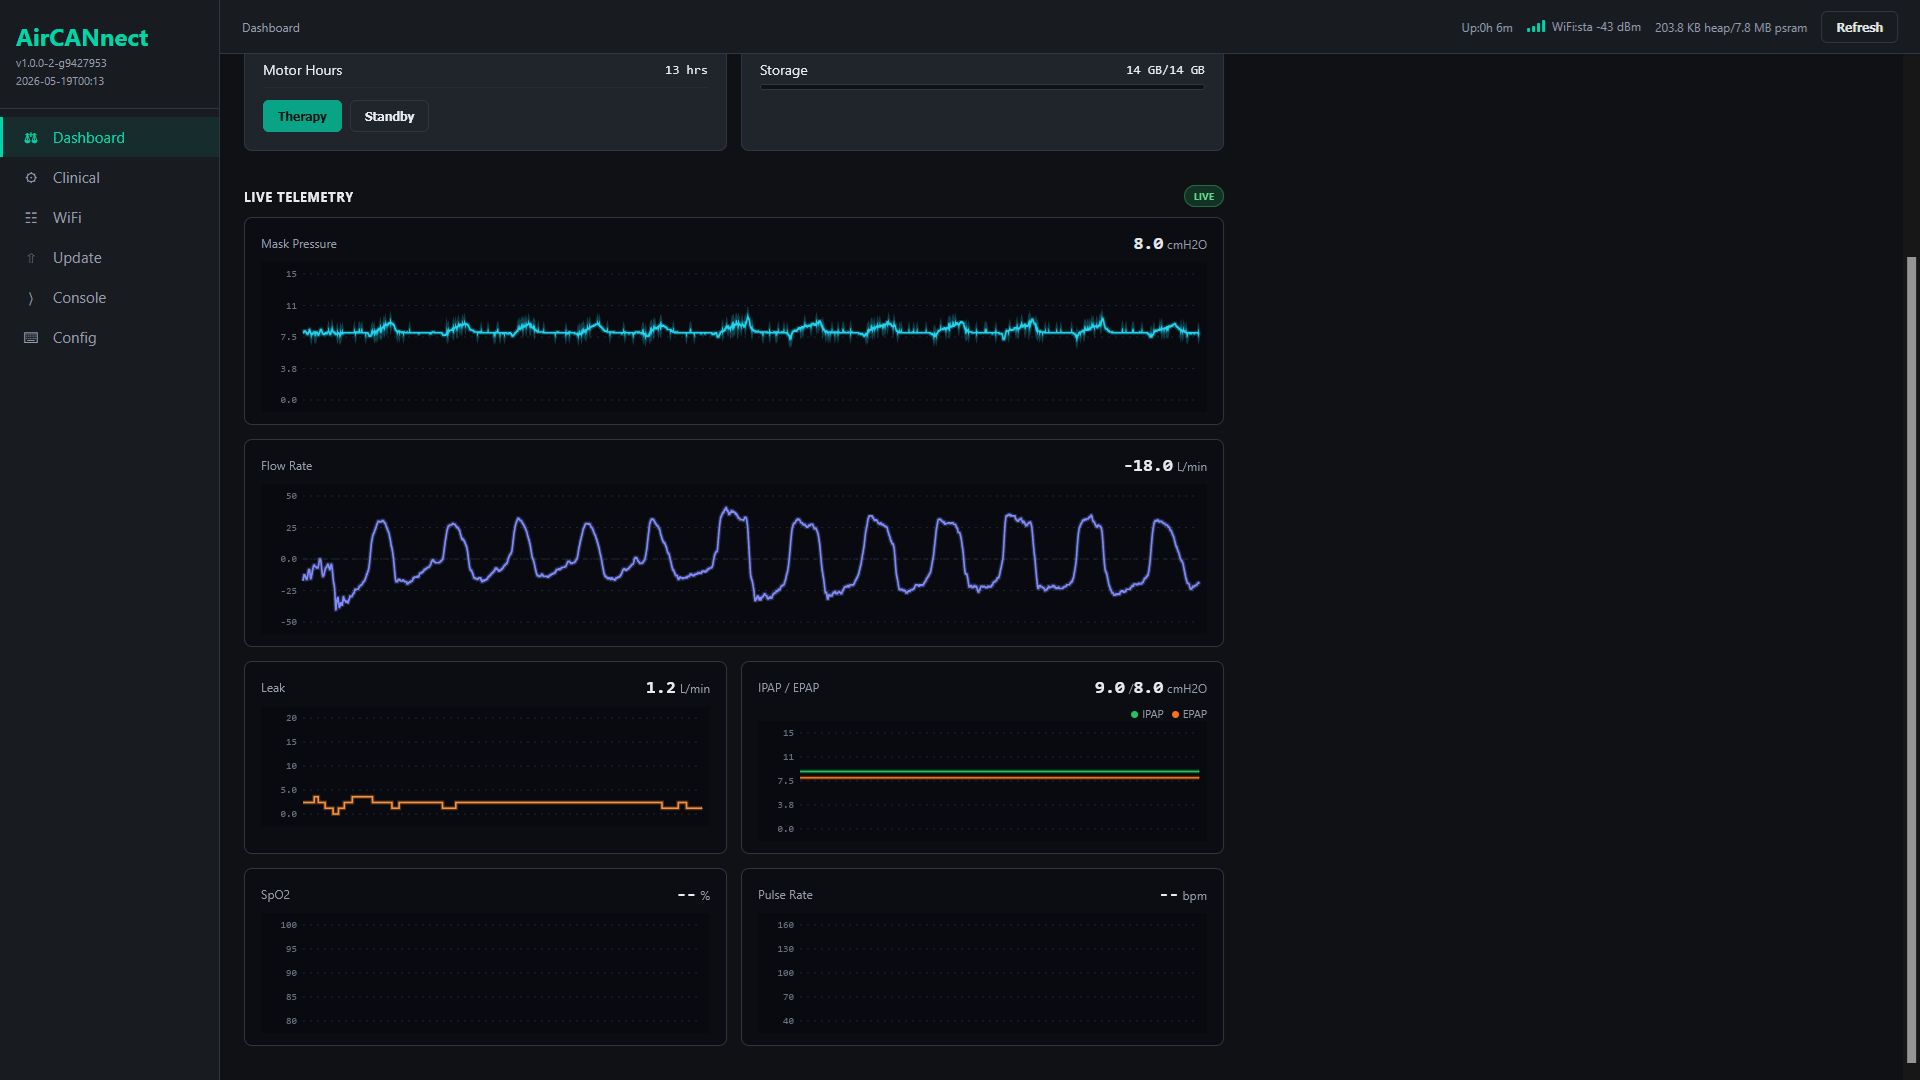
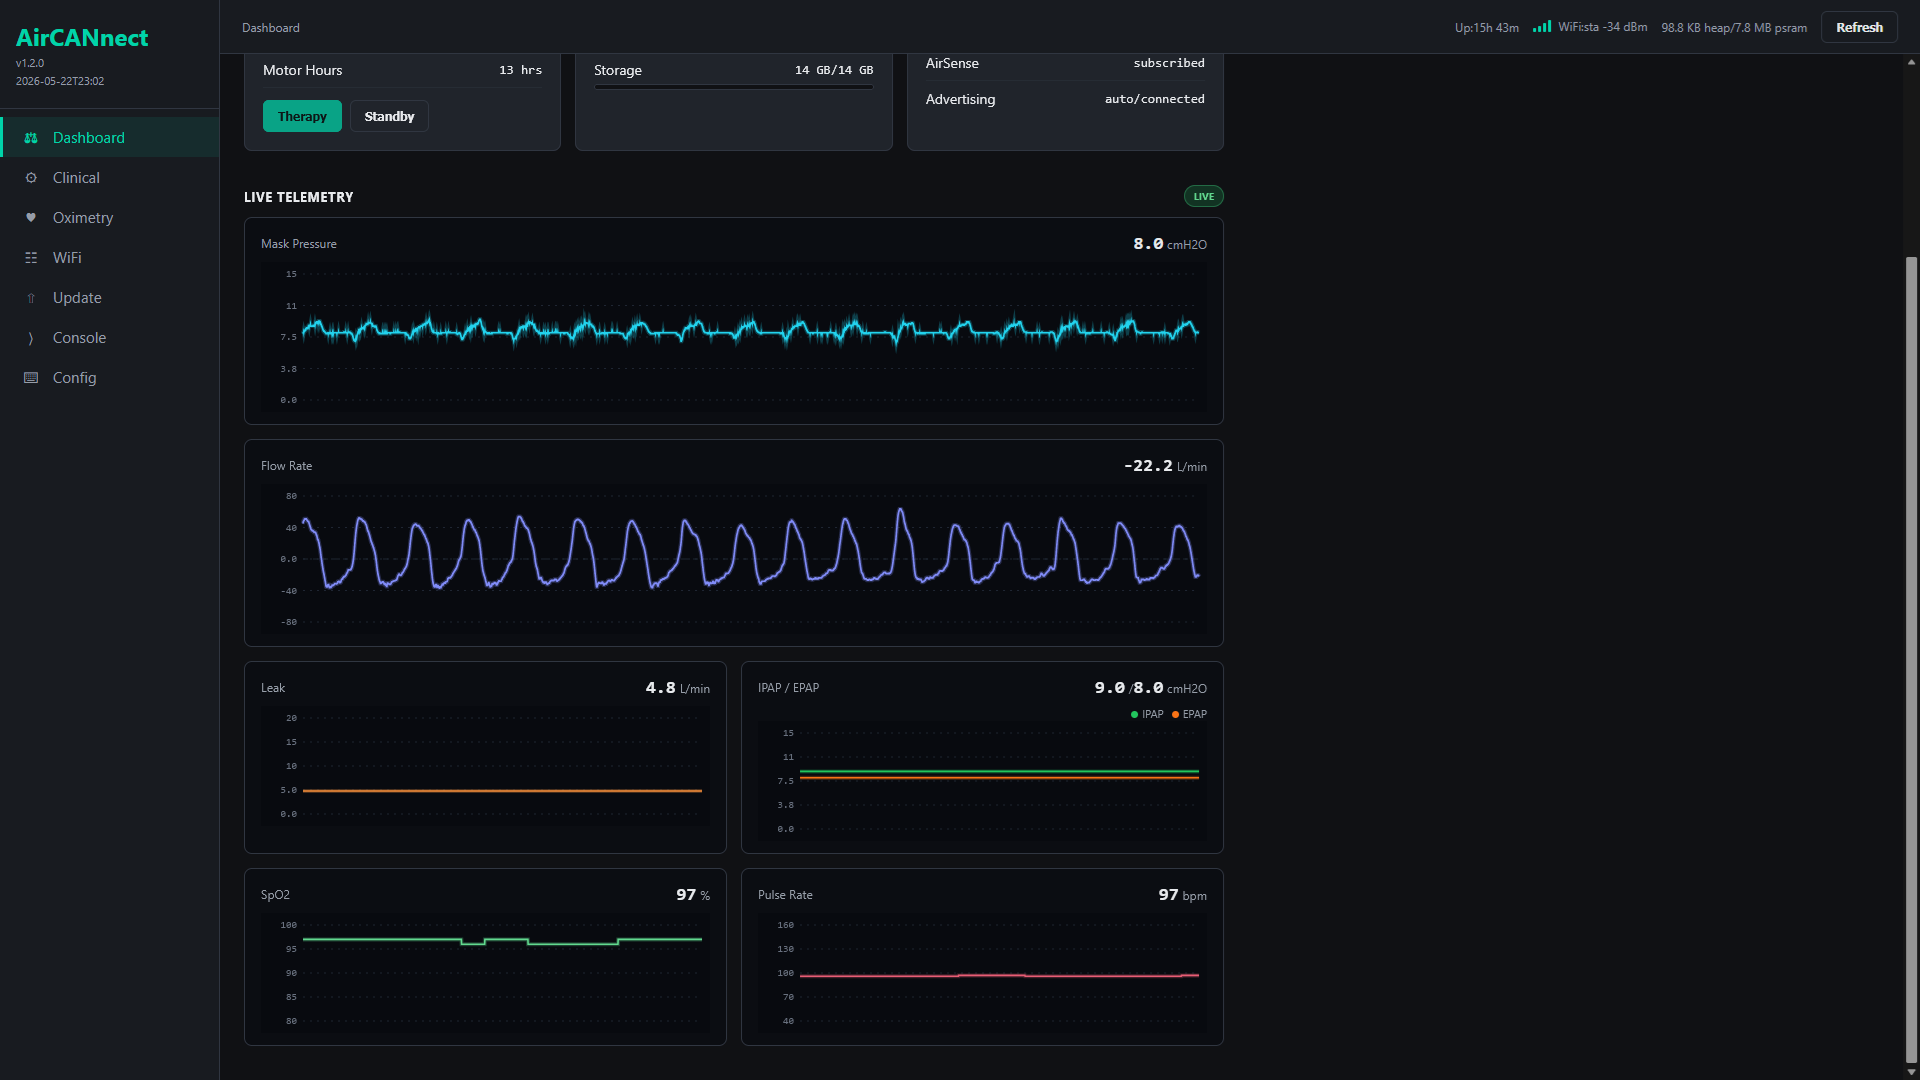
update docs

diff --git a/docs/configuration.md b/docs/configuration.md
@@ -1,83 +1,91 @@
 # Configuration Reference
 
+Persistent AirCANnect configuration keys.
+
+Boolean values accept `on`/`off`, `yes`/`no`, `true`/`false`, `1`/`0`, and
+`enabled`/`disabled`.
+
 ## Device
 
-| Key | Values | Default | Provisioning | Description |
-| --- | --- | --- | --- | --- |
-| `host` | Hostname, 1-63 alnum/hyphen chars, not starting or ending with hyphen | `aircannect` | yes | Device hostname and SoftAP SSID prefix. |
+| Key | Values | Default | Description |
+| --- | --- | --- | --- |
+| `host` | Hostname, 1-63 alnum/hyphen chars, not starting or ending with hyphen | `aircannect` | Device hostname and SoftAP SSID prefix. |
 
 ## Wi-Fi Profiles
 
-| Key | Values | Default | Provisioning | Description |
-| --- | --- | --- | --- | --- |
-| `ssid_0` ... `ssid_3` | SSID string, or empty | empty | yes | Wi-Fi profile SSID slots 0 through 3. Provisioned SSID slots replace the stored profile list; `ssid_0=` with no other SSIDs clears Wi-Fi profiles. |
-| `pass_0` ... `pass_3` | Password string, or empty | empty | yes | Wi-Fi profile password slots 0 through 3. Empty or missing password marks that profile open. |
+| Key | Values | Default | Description |
+| --- | --- | --- | --- |
+| `ssid_0` ... `ssid_3` | SSID string, or empty | empty | Wi-Fi profile SSID slots 0 through 3. Provisioned SSID slots replace the stored profile list; `ssid_0=` with no other SSIDs clears Wi-Fi profiles. |
+| `pass_0` ... `pass_3` | Password string, or empty | empty | Wi-Fi profile password slots 0 through 3. Empty or missing password marks that profile open. |
 
 ## Wi-Fi Behavior
 
-| Key | Values | Default | Provisioning | Description |
-| --- | --- | --- | --- | --- |
-| `wifi_ctry` | `01`, or two-letter ISO country code | `01` | yes | Wi-Fi regulatory country. `01` is the worldwide-safe setting. |
-| `softap_mode` | `auto`, `forced` | `auto` | yes | `auto` keeps SoftAP as fallback/recovery. `forced` keeps SoftAP running alongside STA. |
+| Key | Values | Default | Description |
+| --- | --- | --- | --- |
+| `wifi_ctry` | `01`, or two-letter ISO country code | `01` | Wi-Fi regulatory country. `01` is the worldwide-safe setting. |
+| `softap_mode` | `auto`, `forced` | `auto` | `auto` keeps SoftAP as fallback/recovery. `forced` keeps SoftAP running alongside STA. |
 
 Roaming is implicit when more than one Wi-Fi profile exists.
 
 ## Network Services
 
-| Key | Values | Default | Provisioning | Description |
-| --- | --- | --- | --- | --- |
-| `tcp_en` | boolean | `on` | yes | Enable the raw AS11 TCP bridge. |
-| `tcp_port` | TCP port `1` to `65535` | `39011` | yes | Raw AS11 TCP bridge port. |
-| `telnet_en` | boolean | `on` | yes | Enable the telnet management console. |
-| `telnet_port` | TCP port `1` to `65535` | `23` | yes | Telnet management console port. |
+| Key | Values | Default | Description |
+| --- | --- | --- | --- |
+| `tcp_en` | boolean | `on` | Enable the raw AS11 TCP bridge. |
+| `tcp_port` | TCP port `1` to `65535` | `39011` | Raw AS11 TCP bridge port. |
+| `telnet_en` | boolean | `on` | Enable the telnet management console. |
+| `telnet_port` | TCP port `1` to `65535` | `23` | Telnet management console port. |
 
-## HTTP Access
+## Network Access
 
-Empty `http_user` and `http_pass` mean open HTTP access.
+Empty `http_user` and `http_pass` mean open access for HTTP and telnet.
 
-| Key | Values | Default | Provisioning | Description |
-| --- | --- | --- | --- | --- |
-| `http_user` | ASCII string, max 64 chars, or empty | `admin` | yes | Web UI/API username. |
-| `http_pass` | ASCII string, max 64 chars, or empty | `aircannect` | yes | Web UI/API password. |
-| `auth_wl` | Empty, IPv4 entries/ranges separated by commas | empty | yes | IP/range whitelist that bypasses HTTP auth. |
+| Key | Values | Default | Description |
+| --- | --- | --- | --- |
+| `http_user` | ASCII string, max 64 chars, or empty | `admin` | Web UI/API username. |
+| `http_pass` | ASCII string, max 64 chars, or empty | `aircannect` | Web UI/API password. |
+| `auth_wl` | Empty, `*`, IPv4 addresses, CIDR ranges, or IPv4 start-end ranges separated by commas | empty | IP/range whitelist that bypasses HTTP and telnet auth. |
 
 ## Time
 
-| Key | Values | Default | Provisioning | Description |
-| --- | --- | --- | --- | --- |
-| `tz` | POSIX timezone string, max 64 chars | `UTC` | yes | Local timezone used for UI/CLI display. AS11 RPC time remains UTC. |
-| `resmed_time` | boolean | `off` | yes | When NTP is synced and therapy is idle, push ESP time to the ResMed device. |
+| Key | Values | Default | Description |
+| --- | --- | --- | --- |
+| `tz` | POSIX timezone string, max 64 chars | `UTC` | Local timezone used for UI/CLI display. AS11 RPC time remains UTC. |
+| `resmed_time` | boolean | `off` | When NTP is synced and therapy is idle, push ESP time to the ResMed device. |
 
 ## Oximetry
 
-| Key | Values | Default | Provisioning | Description |
-| --- | --- | --- | --- | --- |
-| `oxi_en` | boolean | `off` | yes | Enable the oximetry bridge. |
-| `oxi_udp` | UDP port `1` to `65535` | `8025` | yes | UDP source port. source format is AirBridge-compatible 7-byte packets. |
-| `oxi_adv` | `auto`, `manual` | `auto` | yes | `auto` advertises the PLX BLE peripheral only while a source is fresh. `manual` requires `oxi advertise start`, but still stops on source timeout. |
+| Key | Values | Default | Description |
+| --- | --- | --- | --- |
+| `oxi_en` | boolean | `on` | Enable oximetry input and AirSense recording bridge. |
+| `oxi_udp` | UDP port `1` to `65535` | `8025` | UDP source port. Source format is AirBridge-compatible 7-byte packets. |
+| `oxi_adv` | `auto`, `manual` | `auto` | `auto` advertises to AirSense while a source is available. `manual` uses explicit `oxi advertise start` / `stop`. |
+
+Known BLE oximeters are stored separately and managed from the Web UI or
+`oxi sensor` console commands, not from `config.txt`.
 
 ## ESP32 OTA
 
-| Key | Values | Default | Provisioning | Description |
-| --- | --- | --- | --- | --- |
-| `ota_pass` | ASCII string up to 64 chars, or empty | `aircannect` | yes | ArduinoOTA password. Empty value allows ArduinoOTA without authorization. |
+| Key | Values | Default | Description |
+| --- | --- | --- | --- |
+| `ota_pass` | ASCII string up to 64 chars, or empty | `aircannect` | ArduinoOTA password. Empty value allows ArduinoOTA without authorization. |
 
 ## Logging
 
-| Key | Values | Default | Provisioning | Description |
-| --- | --- | --- | --- | --- |
-| `syslog_en` | boolean | `off` | yes | Enable UDP syslog forwarding. |
-| `syslog_host` | Empty, or IPv4 address | empty | yes | Syslog destination host. |
-| `syslog_port` | UDP port `1` to `65535` | `514` | yes | Syslog destination port. |
-| `log0` | `ERROR`, `WARN`, `INFO`, `DEBUG` | `INFO` | no | `GENERAL` category log level. |
-| `log1` | `ERROR`, `WARN`, `INFO`, `DEBUG` | `INFO` | no | `CAN` category log level. |
-| `log2` | `ERROR`, `WARN`, `INFO`, `DEBUG` | `INFO` | no | `RPC` category log level. |
-| `log3` | `ERROR`, `WARN`, `INFO`, `DEBUG` | `INFO` | no | `TCP` category log level. |
-| `log4` | `ERROR`, `WARN`, `INFO`, `DEBUG` | `INFO` | no | `CLI` category log level. |
-| `log5` | `ERROR`, `WARN`, `INFO`, `DEBUG` | `INFO` | no | `WIFI` category log level. |
-| `log6` | `ERROR`, `WARN`, `INFO`, `DEBUG` | `INFO` | no | `STREAM` category log level. |
-| `log7` | `ERROR`, `WARN`, `INFO`, `DEBUG` | `INFO` | no | `OTA` category log level. |
-| `log8` | `ERROR`, `WARN`, `INFO`, `DEBUG` | `INFO` | no | `OXI` category log level. |
+| Key | Values | Default | Description |
+| --- | --- | --- | --- |
+| `syslog_en` | boolean | `off` | Enable UDP syslog forwarding. |
+| `syslog_host` | Empty, or IPv4 address | empty | Syslog destination host. |
+| `syslog_port` | UDP port `1` to `65535` | `514` | Syslog destination port. |
+| `log0` | `ERROR`, `WARN`, `INFO`, `DEBUG` | `INFO` | `GENERAL` category log level. |
+| `log1` | `ERROR`, `WARN`, `INFO`, `DEBUG` | `INFO` | `CAN` category log level. |
+| `log2` | `ERROR`, `WARN`, `INFO`, `DEBUG` | `INFO` | `RPC` category log level. |
+| `log3` | `ERROR`, `WARN`, `INFO`, `DEBUG` | `INFO` | `TCP` category log level. |
+| `log4` | `ERROR`, `WARN`, `INFO`, `DEBUG` | `INFO` | `CLI` category log level. |
+| `log5` | `ERROR`, `WARN`, `INFO`, `DEBUG` | `INFO` | `WIFI` category log level. |
+| `log6` | `ERROR`, `WARN`, `INFO`, `DEBUG` | `INFO` | `STREAM` category log level. |
+| `log7` | `ERROR`, `WARN`, `INFO`, `DEBUG` | `INFO` | `OTA` category log level. |
+| `log8` | `ERROR`, `WARN`, `INFO`, `DEBUG` | `INFO` | `OXI` category log level. |
 
 Per-category log levels are currently changed from the management console with
 `log level`, not from `config.txt`.

diff --git a/README.md b/README.md
@@ -22,13 +22,12 @@ ESP32 bridge for ResMed AirSense 11 / AirCurve 11 CPAP.
 - **Multi-profile Wi-Fi**
   - up to four STA profiles, BSSID-targeted roaming, SoftAP auto-fallback or forced always-on.
 - **Oximetry**
-  - use supported external oximetry sources with AirSense 11 HR/SpO2 recording
+  - use supported BLE oximeters or UDP sources with AirSense 11 HR/SpO2 recording
+  - currently supported: O2Ring, O2Ring-S, Checkme O2, Nonin 3150, generic PLX/HR sensors
 
 
 ## Planned
 
-- **BLE oximeter sources**
-  - O2Ring, Checkme O2, Nonin 3150, generic PLX/HR sensors
 - **Live therapy data sinks** - HTTP, SMB, SleepHQ, MQTT... Plugin sinks subscribe through the stream broker; bounded per-consumer queues
 - **Local EDF capture** - record the active therapy session into set of EDF files on own SD card, indexed for remote retrieval over LAN.
 - **BLE provisioning** - replace SoftAP-only first-run with a BLE service for Wi-Fi scan, multi-profile setup, and basic device config from a phone.
@@ -83,9 +82,9 @@ Both also support `-p /dev/ttyUSB0` for direct serial CAN tooling on hardware th
 |---|---|
 | ![Live](docs/screenshots/charts.png) | ![Clinical](docs/screenshots/clinical.png) |
 
-| ResMed OTA | Wi-Fi |
+| ResMed OTA | Oximetry |
 |---|---|
-| ![OTA](docs/screenshots/ota.png) | ![WiFi](docs/screenshots/wifi.png) |
+| ![OTA](docs/screenshots/ota.png) | ![Oximetry](docs/screenshots/oximetry.png) |
 
 ## License
 

diff --git a/docs/udp_oximetry.md b/docs/udp_oximetry.md
@@ -31,8 +31,8 @@ dropped.
 
 `oxi_en` - default on, set off to disable.
 `oxi_udp` - default 8025.
-`oxi_adv` - default auto. Auto advertises to AS11 only while UDP oximetry data
-is fresh.
+`oxi_adv` - default auto. Auto advertises to AS11 only while source data is
+fresh.
 
 ## Source arbitration
 